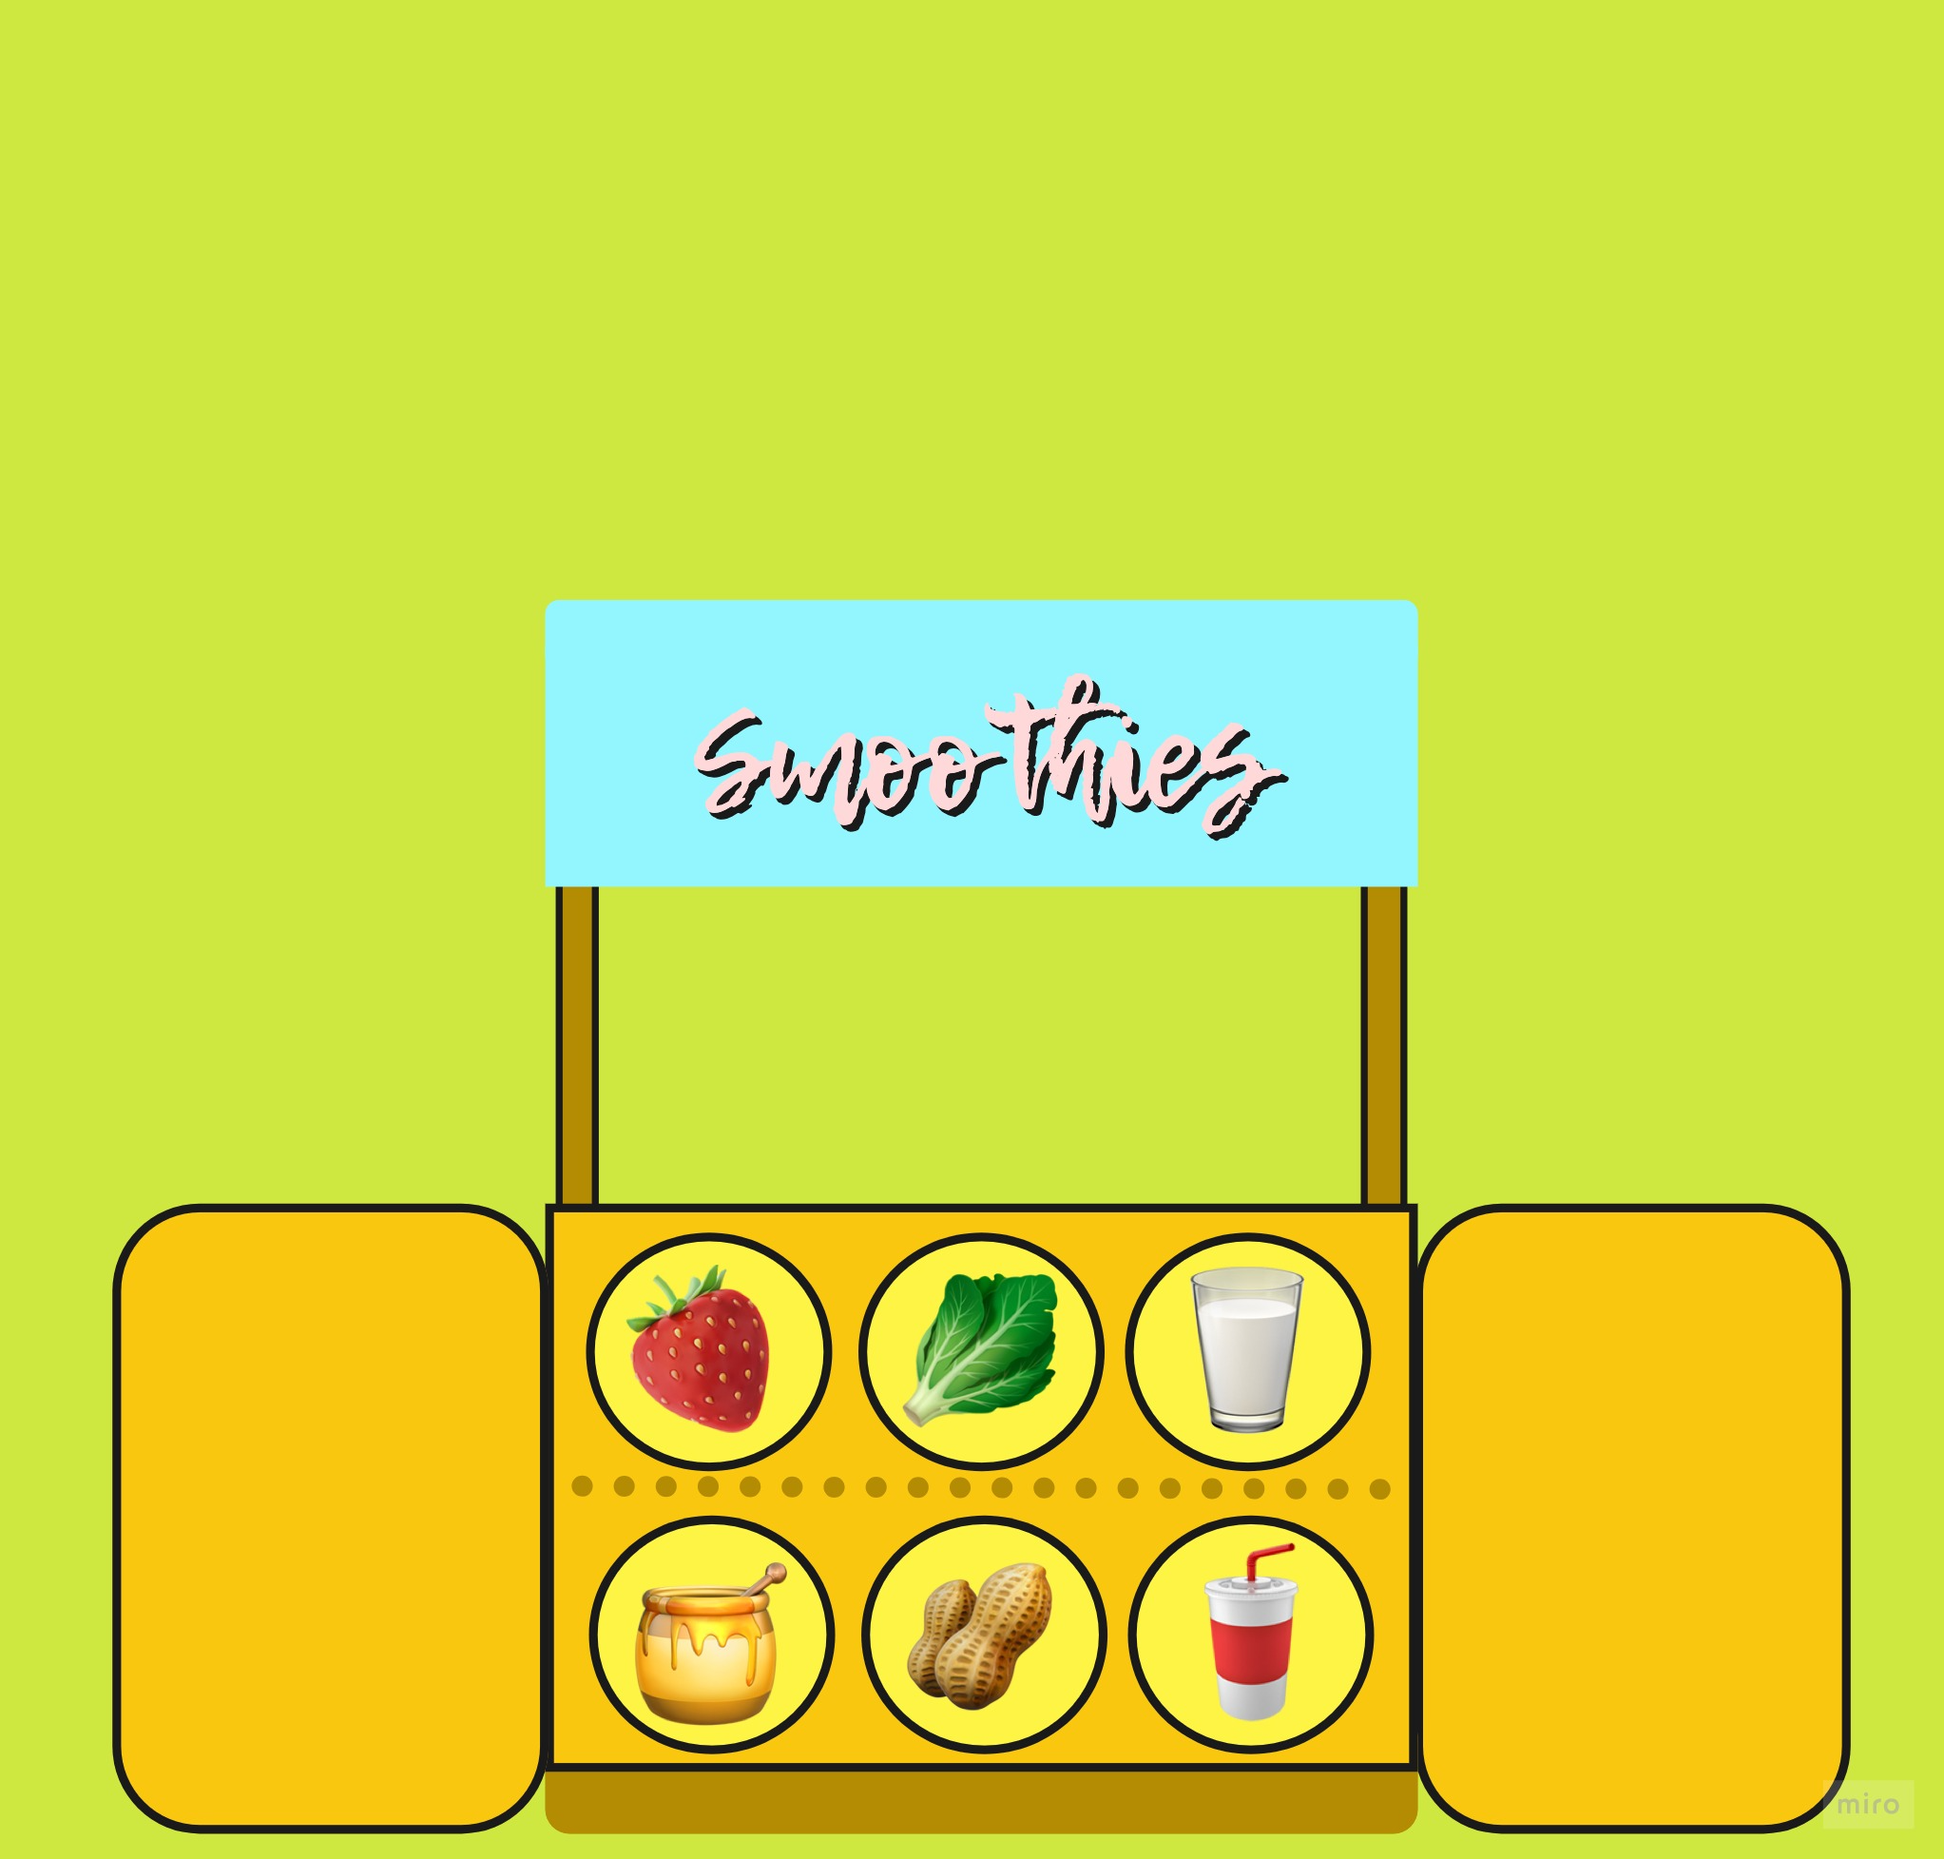
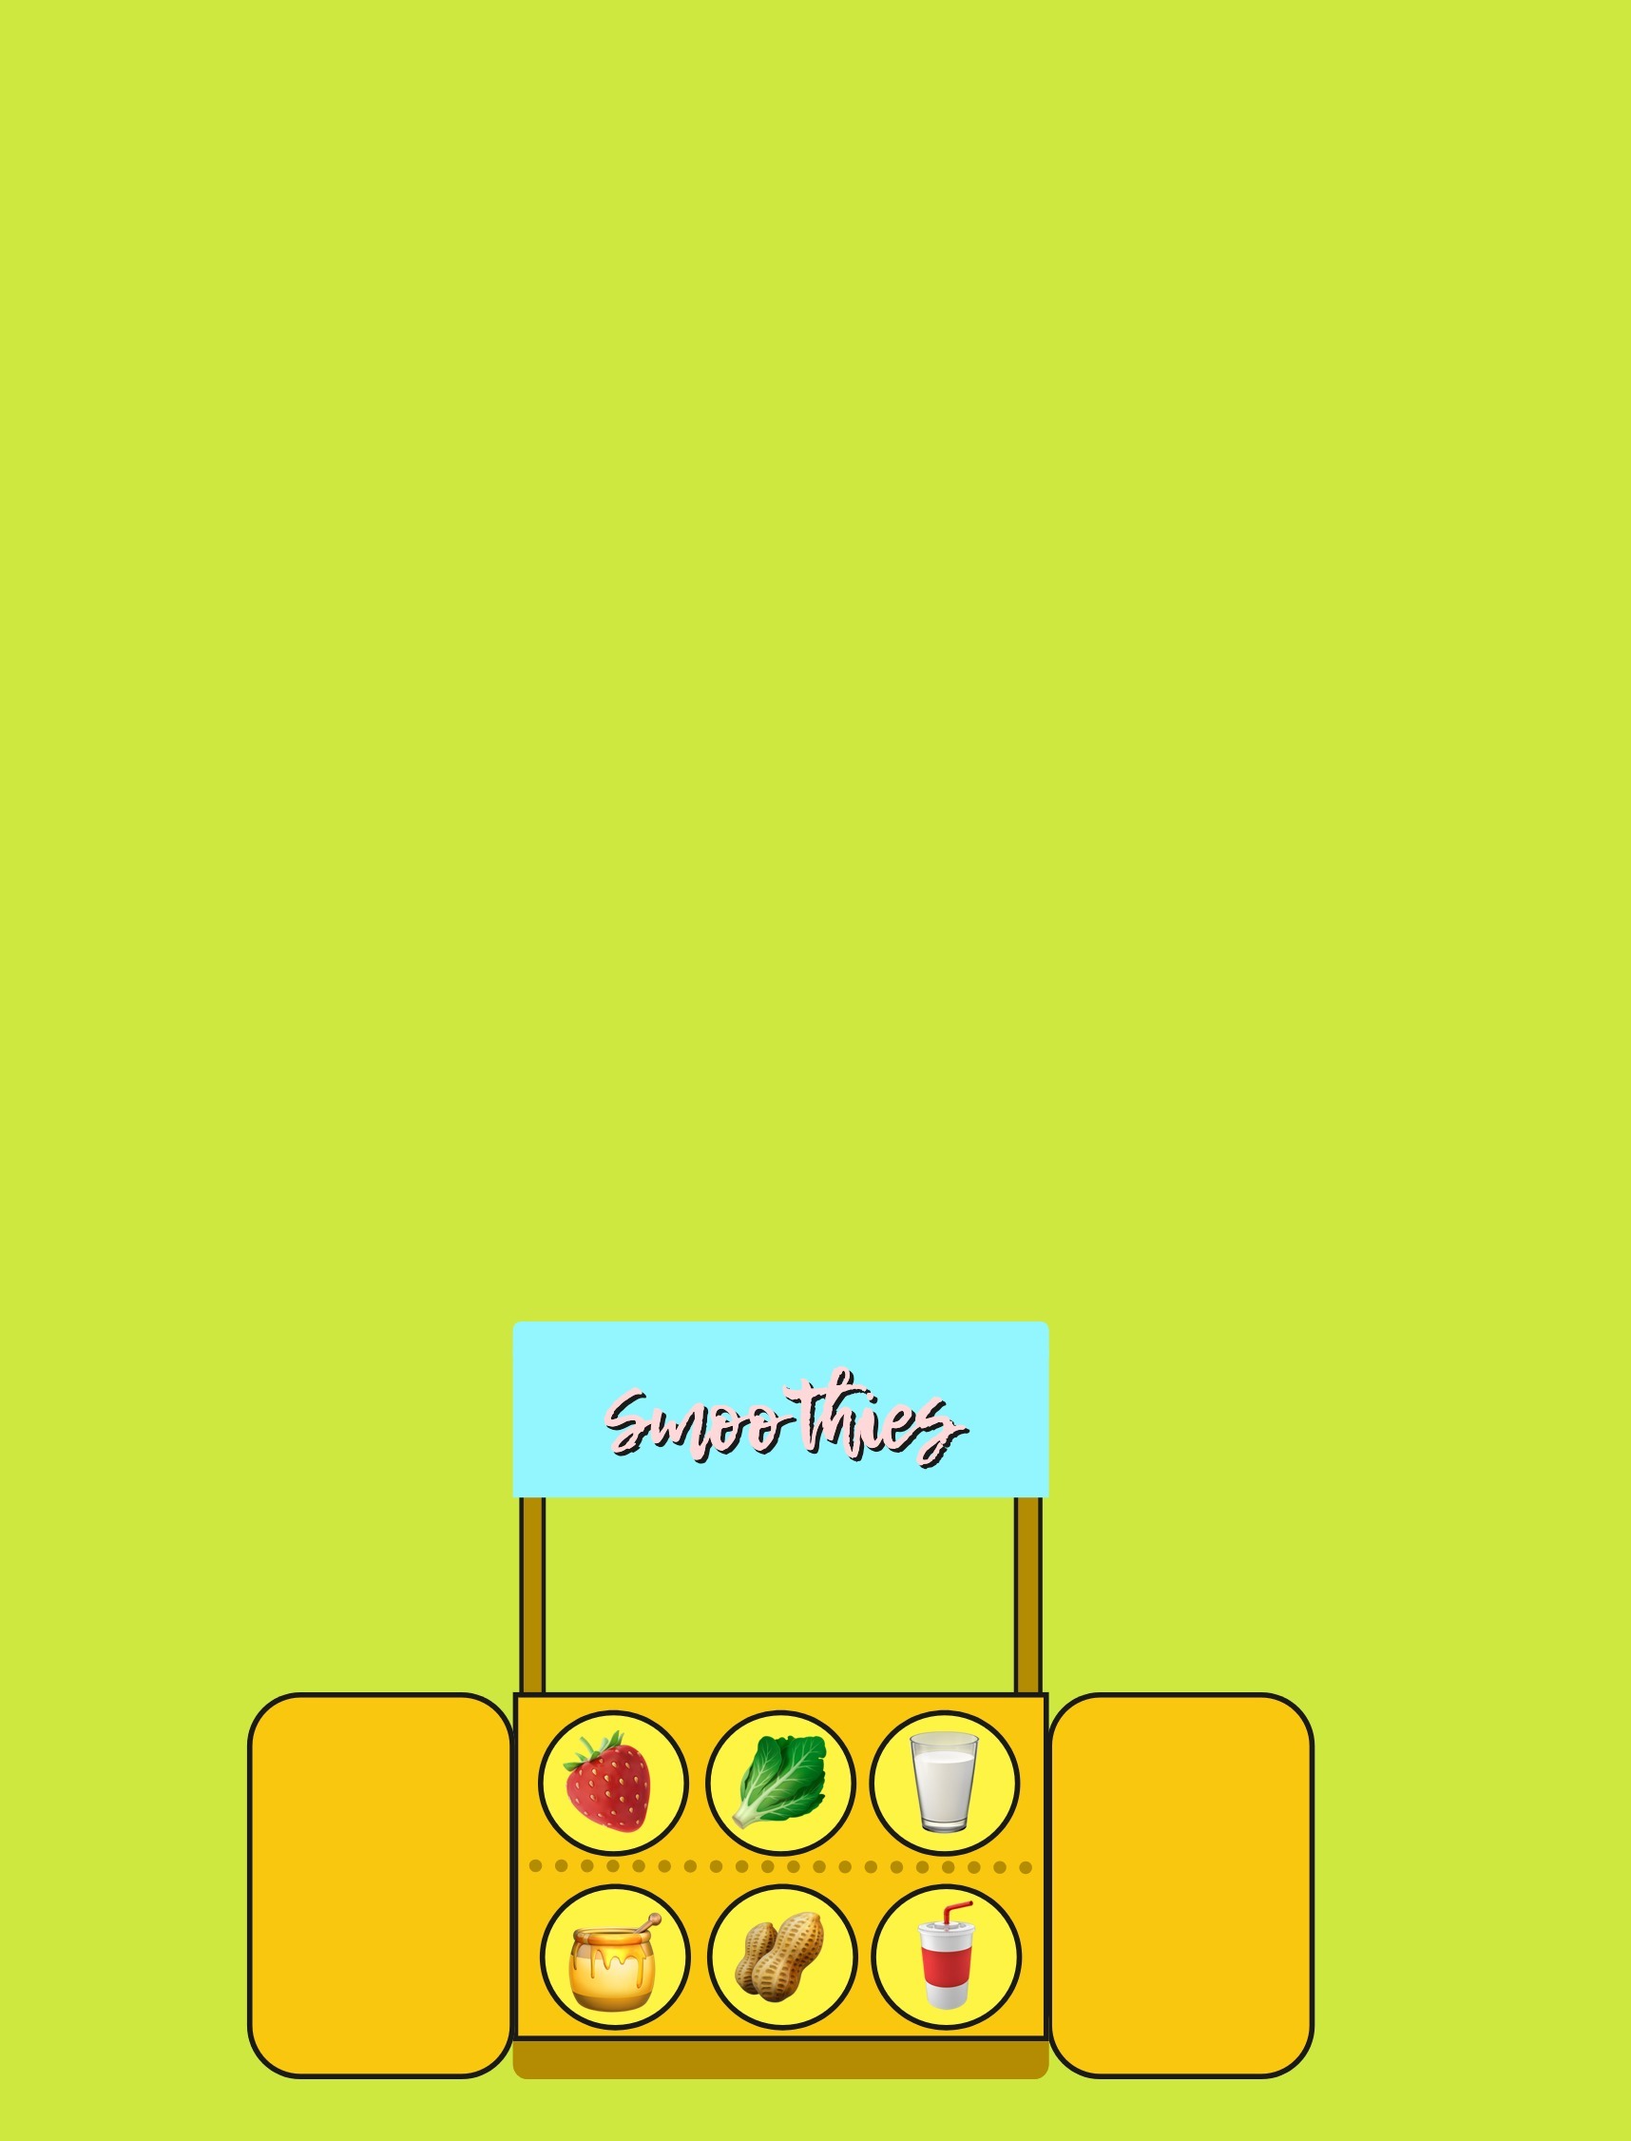
Major Styling Updates- form fields fixed
Co-authored by: Naiema naiema.d.gardner@gmail.com
Co-authored by: Mel mel.nalband@gmail.com
Co-authored by: Jen jennifer.castioni@gmail.com

diff --git a/src/index.scss b/src/index.scss
@@ -12,8 +12,9 @@ body {
   background-repeat: no-repeat;
   background-color: $background-color;
   background-image: url('/smoothie_stand.png');
-  background-position: top fixed;
-  background-size: 30%;
+  background-position: bottom fixed;
+  background-size: 70%;
+  margin-top: -10px;
   //background-size: contain;
   font-family: 'Roboto Mono', monospace;
   font-size: 25px;
@@ -69,6 +70,18 @@ h5 {
   text-align: center;
 }
 
+//h6 holds the styling for the titles "Sign Up" and "Sign In"
+h6 {
+  font-family: 'Roboto Mono', monospace;
+  //font-family: 'Sriracha', cursive;
+  color: #17ecec;
+  font-size: 40px;
+  text-align: center;margin-top: 100px;
+  position: sticky;
+  align-items: center;
+  text-shadow: -1px 0 black, 0 2px black, 1px 0 black, 0 -1px black;
+}
+
 .auth-btns {
   background-color: $button-color;
   color: $hover-font-color;
@@ -79,7 +92,7 @@ h5 {
 }
 
 button {
-  color: white;
+  color: $hover-font-color;
   background-color: $button-color;
   border: 0;
   border-radius: 70px;
@@ -94,6 +107,7 @@ button {
   }
 }
 
+//this still needs to be adjusted
 .btn-change-password {
   background-color: $button-color;
   border-color: none;
@@ -121,13 +135,14 @@ button {
 }
 
 // .column displays the sign up/sign in forms side-by-side
-.column {
-  display: flex;
-  flex-flow: row nowrap;
-  float: left;
-  padding: 10px;
-  width: 50%;
-}
+//.column {
+  // display: flex;
+  //flex-flow: row nowrap;
+  //float: left;
+  //padding: 10px;
+  //width: 50%;
+//}
+
 // .input styles the form fields for sign up and sign in
 .input {
   border: 2px lighter;
@@ -142,55 +157,67 @@ button {
 }
 
 //.unauth form styles the 2 pink boxes around signup/sign in
-.unauth-form {
+//.unauth-form {
+  // border-radius: 60px;
+  // clear: both;
+  // cursor: pointer;
+  // height: 400px;
+  // padding: 40px;
+  // width: 100%;
+  //width: 50%;
+  // justify-content: center;
+  // position: relative;
+  // }
+
+// revisit table, td, and th for a possible v2 (initially used for emoji placement)
+// table {
+//  border-collapse: collapse;
+//  }
+
+// td, th {
+//  font-size: 20px;
+//  border: 0px solid $hover-font-color;
+//  padding: 3rem;
+//  text-align: center;
+//  }
+
+//this changes the ORIGINAL sign in sign out fields
+form {
+  background-color: $text-color;
+  color: #000;
+  float: center;
+  border-radius: 30px;
+  // height: 360px;
+  line-height: 40px;
+  text-align: center;
+  border: 2px lighter;
+  box-sizing: border-box;
+  font-size: 25px;
+  margin-bottom: -100px;
+  outline: none;
+  padding: 40px;
+  transition: .5s ease;
+  width: 80%;
+  }
+
+//row is the class name for the default sign in/sign out section
+row {
+  background-color: $text-color;
+  color: $hover-font-color;
   border-radius: 60px;
   clear: both;
   cursor: pointer;
   height: 400px;
-  padding: 40px;
-  width: 100%;
-  //width: 50%;
   justify-content: center;
+  padding: 40px;
   position: relative;
-  }
-
-  table {
-    border-collapse: collapse;
-  }
-
-  td, th {
-    font-size: 20px;
-    border: 0px solid $hover-font-color;
-    padding: 3rem;
-    text-align: center;
-  }
-
-//the class name is wrong -- this is supposed to be the styling for add inventory
-  form {
-    border: 2px lighter;
-    box-sizing: border-box;
-    font-size: 20px;
-    margin-bottom: 20px;
-    outline: none;
-    padding: 8px;
-    transition: .5s ease;
-    width: 50%;
-  }
-
-//row is the class name for the default sign in/sign out section
-  row {
-    justify-content: center;
-    position: relative;
-    border-radius: 60px;
-    clear: both;
-    cursor: pointer;
-    height: 400px;
-    padding: 40px;
-    width: 100%;
+  width: 100%;
     //width: 50%;
   }
 
   col-sm-10 col-md-8 mx-auto mt-5 {
+    background-color: $text-color;
+    color: $hover-font-color;
     border-radius: 60px;
     clear: both;
     cursor: pointer;
@@ -200,4 +227,12 @@ button {
     //width: 50%;
     justify-content: center;
     position: relative;
+  }
+
+.menupicture {
+    float: right;
+    align-items: right;
+    margin-right: -700px;
+    margin-top: -600px;
+    padding: 50px;
   }

diff --git a/public/index.html b/public/index.html
@@ -22,30 +22,19 @@ unless you know exactly what you're doing! -->
 
 <br>
 
+
 <div class="unauthenticated container" id="unauthenticated">
 <!-- sign up form and button -->
         <div class="column">
-          <form class="sign-up unauth-form" id="sign-up">
-            <input name="credentials[email]" placeholder="e-mail" type="text" class="input">
-            <input name="credentials[password]" placeholder="password" type="password" class="input">
-            <input name="credentials[password_confirmation]" placeholder="confirm password" type="password" class="input"><br>
-            <button type="submit">sign up</button>
-          </form>
       </div>
-
+      <br>
         <!-- sign in form and button -->
         <div class="column">
-          <form class="sign-in unauth-form" id="sign-in">
-          <input name="credentials[email]" placeholder="e-mail" type="text" class="input">
-          <input name="credentials[password]" placeholder="password" type="password" class="input"><br>
-          <button type="submit">sign in</button>
-          </form>
         </div>
-
 
 <br>
 
-<img src="/menu.png" alt="Menu" align="center" width="120%">
+<img src="/menu.png" alt="Menu" align="center" width="900" class="menupicture">
 
   </body>
 </html>

diff --git a/src/components/SignUp/SignUp.js b/src/components/SignUp/SignUp.js
@@ -52,16 +52,16 @@ class SignUp extends Component {
     return (
       <div className="row">
         <div className="col-sm-10 col-md-8 mx-auto mt-5">
-          <h3>Sign Up</h3>
+          <h6>Sign Up</h6>
           <Form onSubmit={this.onSignUp}>
             <Form.Group controlId="email">
-              <Form.Label>Email address</Form.Label>
+              <Form.Label>Email Address</Form.Label>
               <Form.Control
                 required
                 type="email"
                 name="email"
                 value={email}
-                placeholder="Enter email"
+                placeholder="Enter Email"
                 onChange={this.handleChange}
               />
             </Form.Group>
@@ -77,7 +77,7 @@ class SignUp extends Component {
               />
             </Form.Group>
             <Form.Group controlId="passwordConfirmation">
-              <Form.Label>Password Confirmation</Form.Label>
+              <Form.Label>Confirm Password</Form.Label>
               <Form.Control
                 required
                 name="passwordConfirmation"

diff --git a/src/components/SignIn/SignIn.js b/src/components/SignIn/SignIn.js
@@ -50,16 +50,16 @@ class SignIn extends Component {
     return (
       <div className="row">
         <div className="col-sm-10 col-md-8 mx-auto mt-5">
-          <h3>Sign In</h3>
+          <h6>Sign In</h6>
           <Form onSubmit={this.onSignIn}>
             <Form.Group controlId="email">
-              <Form.Label>Email address</Form.Label>
+              <Form.Label>Email Address</Form.Label>
               <Form.Control
                 required
                 type="email"
                 name="email"
                 value={email}
-                placeholder="Enter email"
+                placeholder="Enter Email"
                 onChange={this.handleChange}
               />
             </Form.Group>
